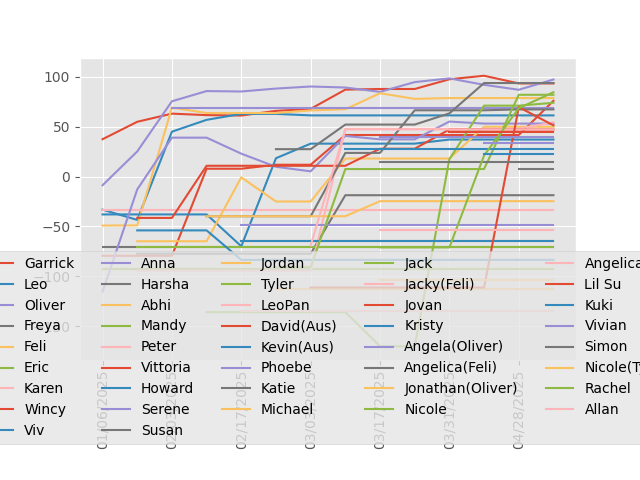
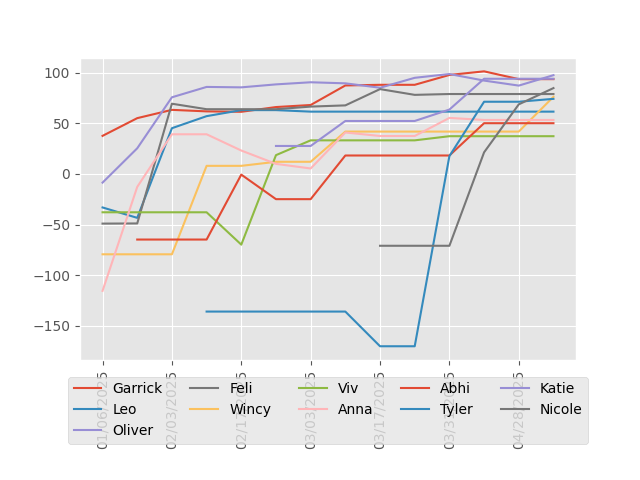
update rankings

diff --git a/parse_results.py b/parse_results.py
@@ -178,7 +178,7 @@ def main():
     best_dict = get_best_game_by_player(ts_dict)
     logger.info(best_dict)
     markdown, infrequent_players = add_ranking_rows(
-        "Overall Rankings", overall_ts, markdown, infrequent_threshold=0
+        "Overall Rankings", overall_ts, markdown, infrequent_threshold=10
     )
     plot_rankings_over_time(overall_df, infrequent_players)
 
